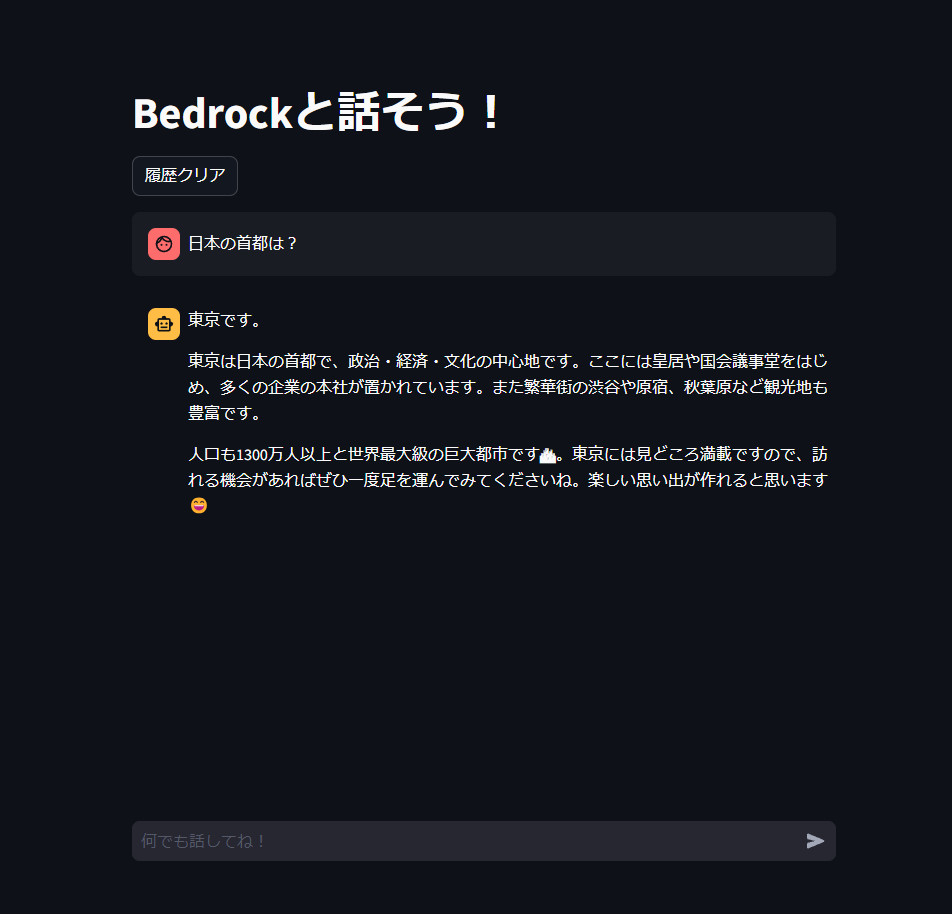
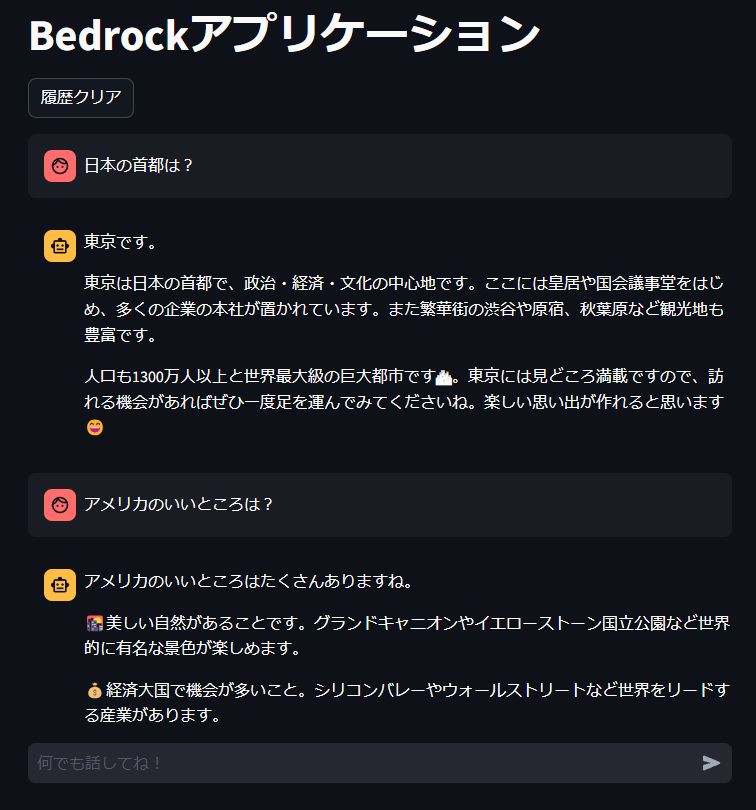
update

diff --git a/src/app/main.py b/src/app/main.py
@@ -36,7 +36,7 @@ if "chain" not in st.session_state:
     st.session_state.chain = prompt | chat
 
 # タイトルを画面表示
-st.title("Bedrockと話そう！")
+st.title("Bedrockアプリケーション")
 
 # 履歴クリアボタンを画面表示
 if st.button("履歴クリア"):

diff --git a/README.md b/README.md
@@ -14,7 +14,7 @@
 
 ## 概要
 Amazon Bedrockを用いたチャットボットアプリになります。  
-こちらのQiitaの記事を参考にしながら、CloudFormationで実装したシステムになります。  
+こちらの[Qiita](https://qiita.com/minorun365/items/84bef6f06e450a310a6a)の記事を参考にしながら、CloudFormationで実装したシステムになります。  
 
 ### アプリケーションのイメージ
 
@@ -42,6 +42,4 @@ Amazon Bedrockを用いたチャットボットアプリになります。
 
 ## 今後の展望
 
-* Route53, ACMを用いたHTTPS対応
-* Cognitoを用いたユーザー認証機能
 * Knowledge Baseを用いたRAG機能の追加
